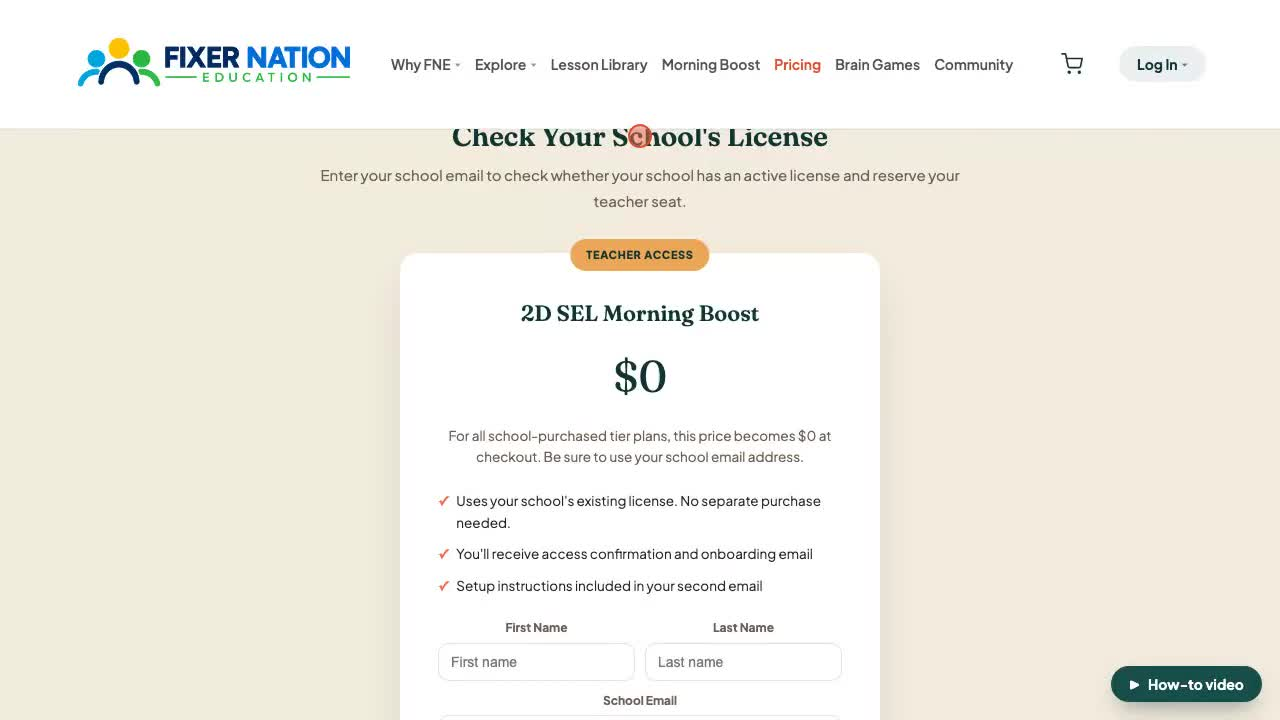
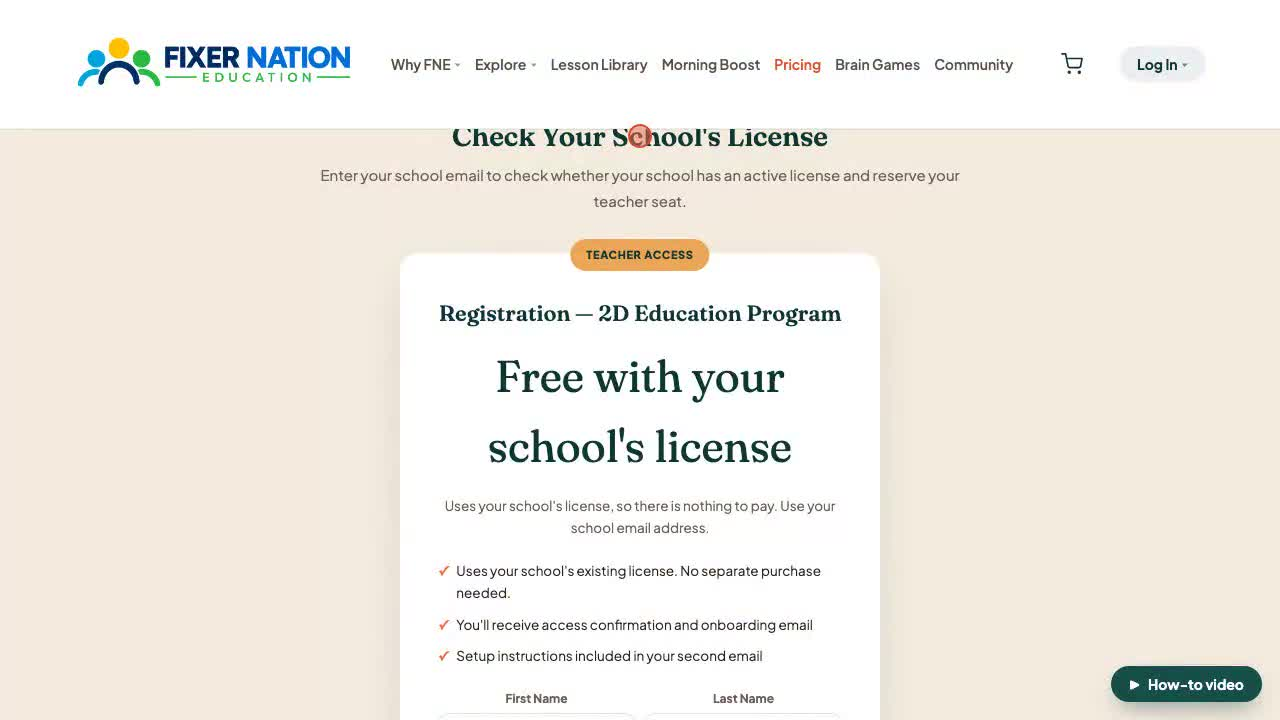
Release 147 (cont.): publish re-recorded T2; help-videos.js v18

diff --git a/server/test/help-center.test.js b/server/test/help-center.test.js
@@ -114,10 +114,10 @@ test('GET HELP VIDEOS: G1 and G2 are on the Get help page, G3 is staff-only and 
   assert.equal(JSON.stringify(by('G3').pages), '["admin-support.html","admin-support-errors.html"]'); assert.equal(by('G3').listed, false); assert.equal(by('G3').group, 'staff');
   for (const id of ['G1', 'G2', 'G3']) assert.ok(videos.videos.find(v => v.id === id) && !videos.recorded(by(id)) === !by(id).url, `${id} is hidden until published`);
   assert.match(read('help-videos.js'), /v\.listed !== false/);
-  assert.match(read('support.html'), /help-videos\.js\?v=17/); assert.match(read('admin-support.html'), /help-videos\.js\?v=17/);
+  assert.match(read('support.html'), /help-videos\.js\?v=18/); assert.match(read('admin-support.html'), /help-videos\.js\?v=18/);
   for (const f of fs.readdirSync(ROOT).filter(n => n.endsWith('.html'))) {
     const m = read(f).match(/help-videos\.js\?v=(\d+)/);
-    if (m) assert.equal(m[1], '17', `${f} loads help-videos.js at the current version`);
+    if (m) assert.equal(m[1], '18', `${f} loads help-videos.js at the current version`);
   }
   assert.ok(HC.entries.some(e => e.video === 'G1') && HC.entries.some(e => e.video === 'G2'), 'the Help center points at both user videos');
 });

diff --git a/help-videos.js b/help-videos.js
@@ -112,7 +112,7 @@
       pages: ['school-invite-accept.html'], url: 'https://res.cloudinary.com/x9ll3a3t/video/upload/v1793412321/fne/help/T1.mp4', captions: '/help-assets/T1.vtt', poster: '/help-assets/T1.jpg' },
     { id: 'T2', group: 'teachers', topic: 'Getting in', title: 'Register with your school email',
       summary: 'Use your school email to reserve a seat and create your account.',
-      pages: ['education-schools.html'], url: 'https://res.cloudinary.com/x9ll3a3t/video/upload/v1793721655/fne/help/T2.mp4', captions: '/help-assets/T2.vtt', poster: '/help-assets/T2.jpg' },
+      pages: ['education-schools.html'], url: 'https://res.cloudinary.com/x9ll3a3t/video/upload/v1794095339/fne/help/T2.mp4', captions: '/help-assets/T2.vtt', poster: '/help-assets/T2.jpg' },
     { id: 'T3', group: 'teachers', topic: 'Classrooms and students', title: 'Create a classroom and add students',
       summary: 'Create a classroom, then add students one at a time or import a list.',
       pages: ['teacher-classrooms.html', 'teacher-classroom.html'], url: 'https://res.cloudinary.com/x9ll3a3t/video/upload/v1793412323/fne/help/T3.mp4', captions: '/help-assets/T3.vtt', poster: '/help-assets/T3.jpg' },

diff --git a/server/test/support-consolidation.test.js b/server/test/support-consolidation.test.js
@@ -134,5 +134,5 @@ test('HELP VIDEO G3: the staff video button is on the Inbox and on the Errors pa
     ? JSON.parse(read('docs/training-videos/video-watch.json')).videos.G3
     : JSON.parse(read('docs/training-videos/video-watch.json')).G3;
   assert.ok(g3.includes('admin-support-errors.html'), 'video-watch.json lists the Errors page for G3');
-  assert.match(read('admin-support-errors.html'), /help-videos\.js\?v=17/);
+  assert.match(read('admin-support-errors.html'), /help-videos\.js\?v=18/);
 });

diff --git a/admin-support-help.html b/admin-support-help.html
@@ -83,7 +83,7 @@
 
 <script src="admin-common.js?v=17"></script>
 <script src="help-center.js?v=8"></script>
-<script src="help-videos.js?v=17"></script>
+<script src="help-videos.js?v=18"></script>
 <script>
 function cell(text) { const td = document.createElement('td'); td.textContent = text; return td; }
 function row(cells) { const tr = document.createElement('tr'); cells.forEach(function (c) { tr.appendChild(c); }); return tr; }

diff --git a/school-admin-invitations.html b/school-admin-invitations.html
@@ -418,6 +418,6 @@ document.addEventListener('DOMContentLoaded', function () {
 
 function esc(str) { return String(str == null ? '' : str).replace(/&/g,'&amp;').replace(/</g,'&lt;').replace(/>/g,'&gt;').replace(/"/g,'&quot;').replace(/'/g,'&#39;'); }
 </script>
-<script src="help-videos.js?v=17" defer></script>
+<script src="help-videos.js?v=18" defer></script>
 </body>
 </html>

diff --git a/district-admin-dashboard.html b/district-admin-dashboard.html
@@ -135,6 +135,6 @@ function card(label, value, sub, cls) {
   return '<div class="sa-stat-card ' + cls + '"><div class="label">' + esc(label) + '</div><div class="value">' + esc(value) + '</div><div class="sub">' + esc(sub) + '</div></div>';
 }
 </script>
-<script src="help-videos.js?v=17" defer></script>
+<script src="help-videos.js?v=18" defer></script>
 </body>
 </html>

diff --git a/parent-invite-accept.html b/parent-invite-accept.html
@@ -336,7 +336,7 @@ function showError(msg) {
 function show(id) { document.getElementById(id).style.display = ''; }
 function hide(id) { document.getElementById(id).style.display = 'none'; }
 </script>
-<script src="help-videos.js?v=17" defer></script>
+<script src="help-videos.js?v=18" defer></script>
 <script src="site-logo.js?v=1"></script>
 </body>
 </html>

diff --git a/school-invite-accept.html b/school-invite-accept.html
@@ -388,7 +388,7 @@ function showError(msg) {
 function show(id) { document.getElementById(id).style.display = ''; }
 function hide(id) { document.getElementById(id).style.display = 'none'; }
 </script>
-<script src="help-videos.js?v=17" defer></script>
+<script src="help-videos.js?v=18" defer></script>
 <script src="site-logo.js?v=1"></script>
 </body>
 </html>

diff --git a/district-admin-schools.html b/district-admin-schools.html
@@ -332,6 +332,6 @@ async function submitAssign() {
 
 function esc(str) { return String(str == null ? '' : str).replace(/&/g,'&amp;').replace(/</g,'&lt;').replace(/>/g,'&gt;').replace(/"/g,'&quot;').replace(/'/g,'&#39;'); }
 </script>
-<script src="help-videos.js?v=17" defer></script>
+<script src="help-videos.js?v=18" defer></script>
 </body>
 </html>

diff --git a/school-admin-dashboard.html b/school-admin-dashboard.html
@@ -162,6 +162,6 @@ function renderDashboard(d) {
 
 function esc(str) { return String(str == null ? '' : str).replace(/&/g,'&amp;').replace(/</g,'&lt;').replace(/>/g,'&gt;').replace(/"/g,'&quot;').replace(/'/g,'&#39;'); }
 </script>
-<script src="help-videos.js?v=17" defer></script>
+<script src="help-videos.js?v=18" defer></script>
 </body>
 </html>

diff --git a/school-admin-org.html b/school-admin-org.html
@@ -258,6 +258,6 @@ function info(label, value) {
 
 function esc(str) { return String(str == null ? '' : str).replace(/&/g,'&amp;').replace(/</g,'&lt;').replace(/>/g,'&gt;').replace(/"/g,'&quot;').replace(/'/g,'&#39;'); }
 </script>
-<script src="help-videos.js?v=17" defer></script>
+<script src="help-videos.js?v=18" defer></script>
 </body>
 </html>

diff --git a/school-admin-reports.html b/school-admin-reports.html
@@ -299,6 +299,6 @@ function exportCsv(type) {
 
 function esc(str) { return String(str == null ? '' : str).replace(/&/g,'&amp;').replace(/</g,'&lt;').replace(/>/g,'&gt;').replace(/"/g,'&quot;').replace(/'/g,'&#39;'); }
 </script>
-<script src="help-videos.js?v=17" defer></script>
+<script src="help-videos.js?v=18" defer></script>
 </body>
 </html>
